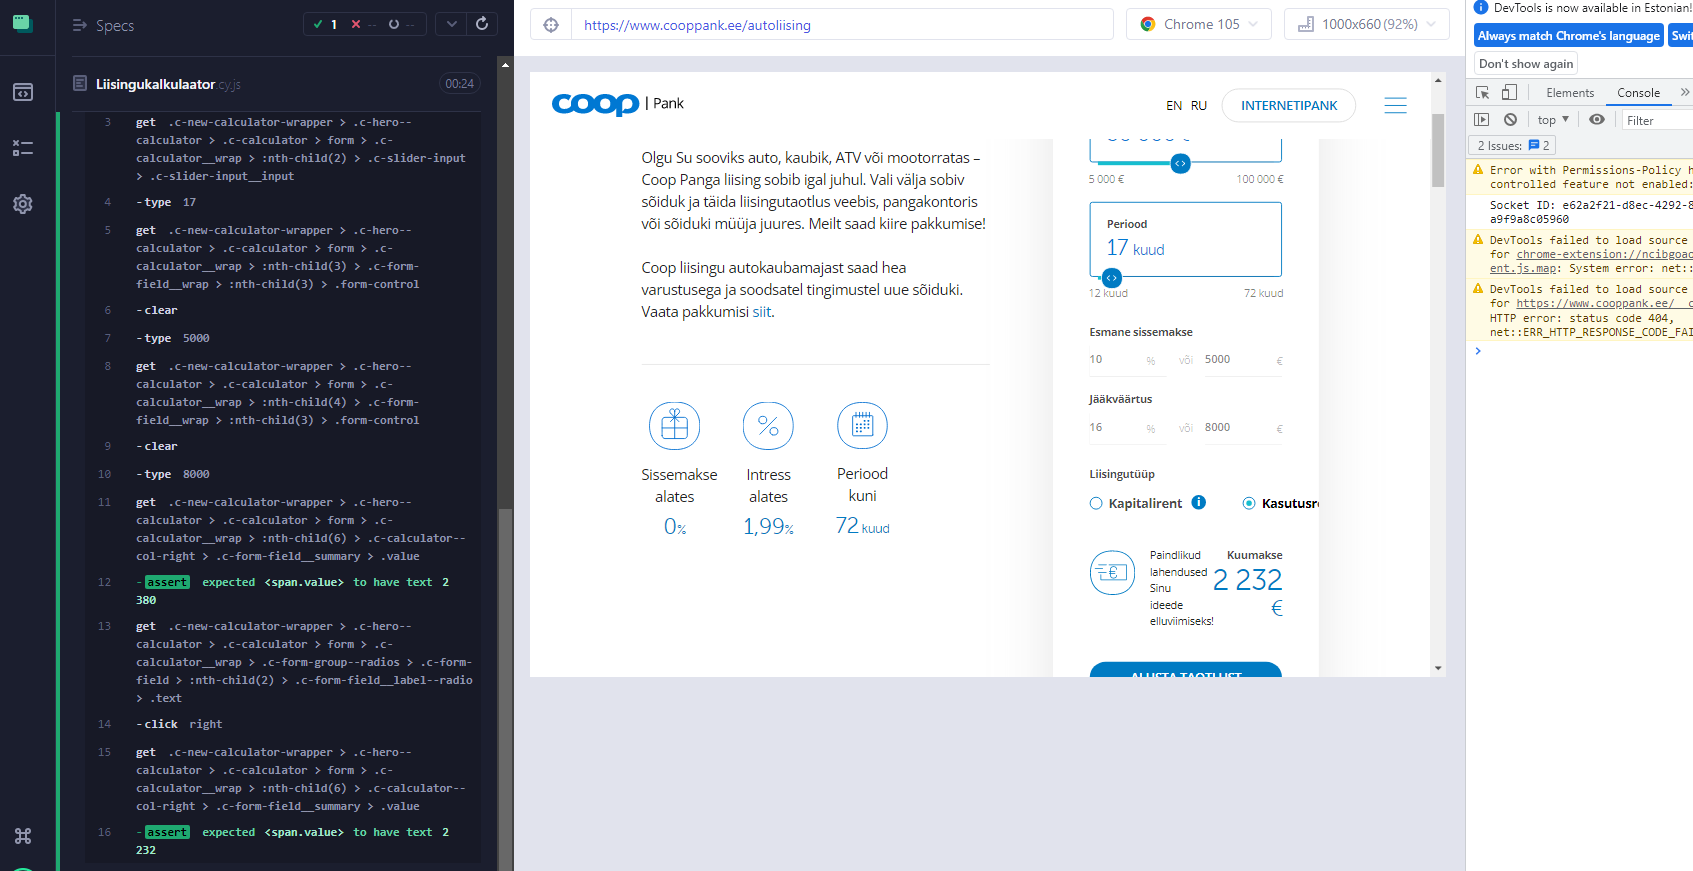
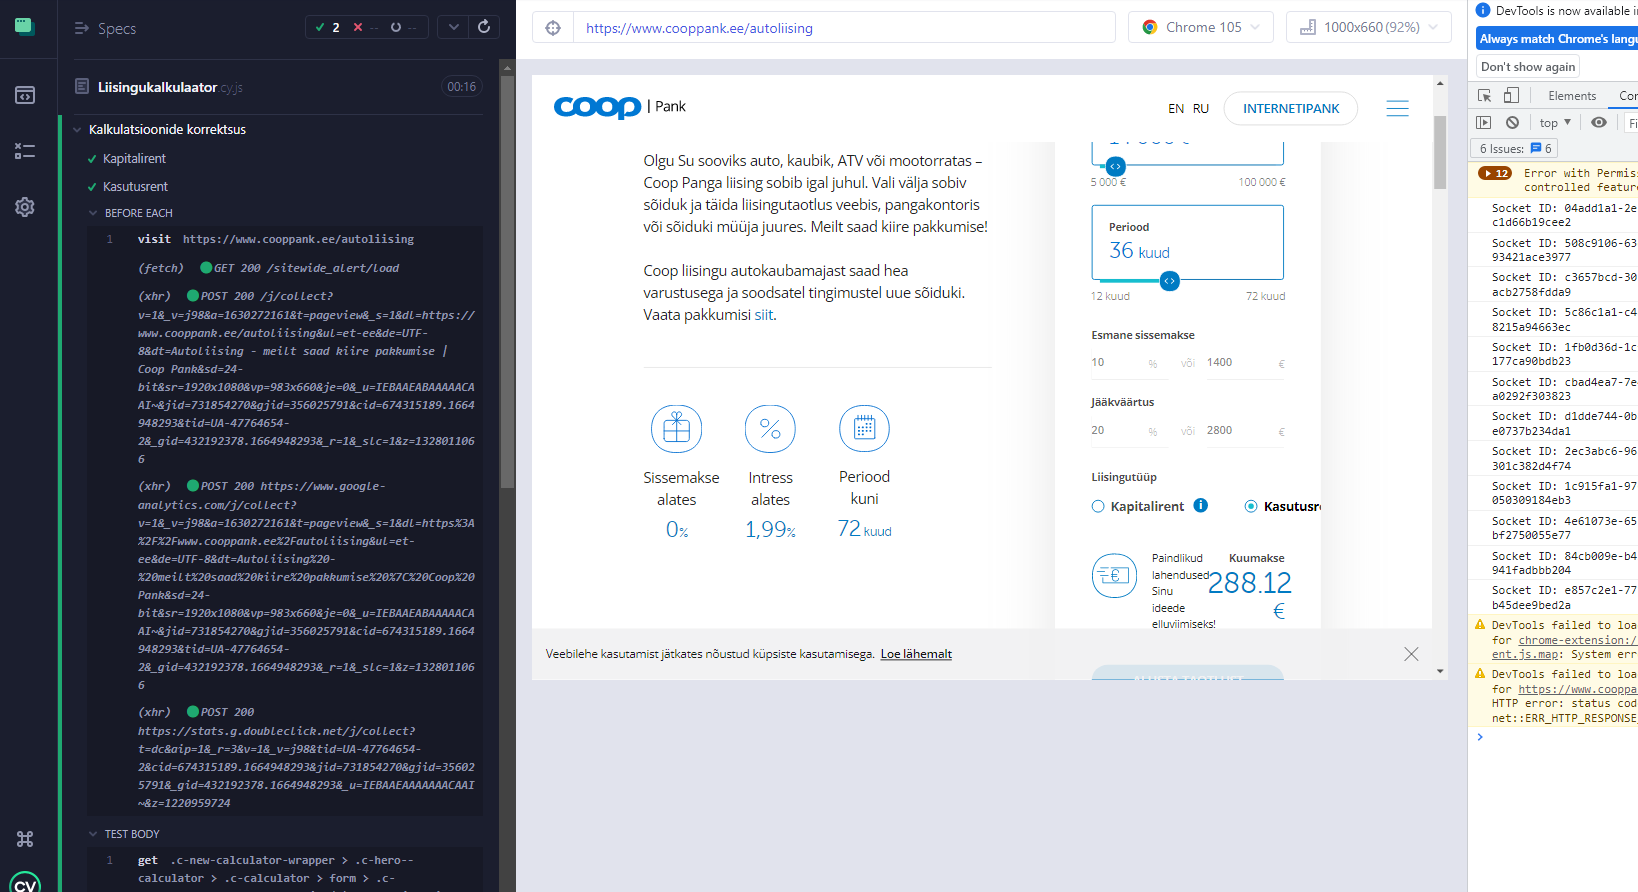
Fixes to README.md and split tests

diff --git a/cypress/e2e/Liisingukalkulaator.cy.js b/cypress/e2e/Liisingukalkulaator.cy.js
@@ -1,12 +1,12 @@
 /// <reference types="cypress" />
 
-context('Kapitali- ja kasutusrent', () => {
+context('Kalkulatsioonide korrektsus', () => {
     beforeEach(() => {
         cy.visit('https://www.cooppank.ee/autoliising')
     })
 
 
-    it('.type() - type into a DOM element', () => {
+    it('Kapitalirent', () => {
         //Ostuhind
         cy.get('.c-new-calculator-wrapper > .c-hero--calculator > .c-calculator > form > .c-calculator__wrap > :nth-child(1) > .c-slider-input > .c-slider-input__input > .c-slider-input__mask > .value')
             .type('50 000')
@@ -18,22 +18,41 @@ context('Kapitali- ja kasutusrent', () => {
         //Esmane sissemakse
         cy.get('.c-new-calculator-wrapper > .c-hero--calculator > .c-calculator > form > .c-calculator__wrap > :nth-child(3) > .c-form-field__wrap > :nth-child(3) > .form-control')
             .clear().type('5000')
+
         //Jääkväärtus
         cy.get('.c-new-calculator-wrapper > .c-hero--calculator > .c-calculator > form > .c-calculator__wrap > :nth-child(4) > .c-form-field__wrap > :nth-child(3) > .form-control')
             .clear().type('8000')
+
         //Kuumakse
         cy.get('.c-new-calculator-wrapper > .c-hero--calculator > .c-calculator > form > .c-calculator__wrap > :nth-child(6) > .c-calculator--col-right > .c-form-field__summary > .value')
             .should('have.text', '2 380')
+    })
 
+    it('Kasutusrent', () => {
+
+        //Ostuhind
+        cy.get('.c-new-calculator-wrapper > .c-hero--calculator > .c-calculator > form > .c-calculator__wrap > :nth-child(1) > .c-slider-input > .c-slider-input__input > .c-slider-input__mask > .value')
+            .type('14 000')
+
+        //Periood
+        cy.get('.c-new-calculator-wrapper > .c-hero--calculator > .c-calculator > form > .c-calculator__wrap > :nth-child(2) > .c-slider-input > .c-slider-input__input')
+            .type('36')
+
+        //Esmane sissemakse
+        cy.get('.c-new-calculator-wrapper > .c-hero--calculator > .c-calculator > form > .c-calculator__wrap > :nth-child(3) > .c-form-field__wrap > :nth-child(3) > .form-control')
+            .clear().type('1400')
+
+        //Jääkväärtus
+        cy.get('.c-new-calculator-wrapper > .c-hero--calculator > .c-calculator > form > .c-calculator__wrap > :nth-child(4) > .c-form-field__wrap > :nth-child(3) > .form-control')
+            .clear().type('2800')
+
+        //Vali kasutusrent
         cy.get('.c-new-calculator-wrapper > .c-hero--calculator > .c-calculator > form > .c-calculator__wrap > .c-form-group--radios > .c-form-field > :nth-child(2) > .c-form-field__label--radio > .text')
-            //.contain('Kapitalirent')
             .click('right')
 
-//Kapitalirent
-        // Kuumakse
+        //Kuumakse
         cy.get('.c-new-calculator-wrapper > .c-hero--calculator > .c-calculator > form > .c-calculator__wrap > :nth-child(6) > .c-calculator--col-right > .c-form-field__summary > .value')
-            .should('have.text', '2 232')
-        
+            .should('have.text', '288.12')
     })
 })
 

diff --git a/README.md b/README.md
@@ -21,6 +21,6 @@ Implemented using https://www.cypress.io
 
 #### Käsurealt
 
-```node_modules\\.bin\\cypress run```
+```./node_modules/.bin/cypress run```
 
-![](img/Screenshot_2022-10-05%20000807.png)
+![](img/Screenshot_2022-10-05 081949.png)
